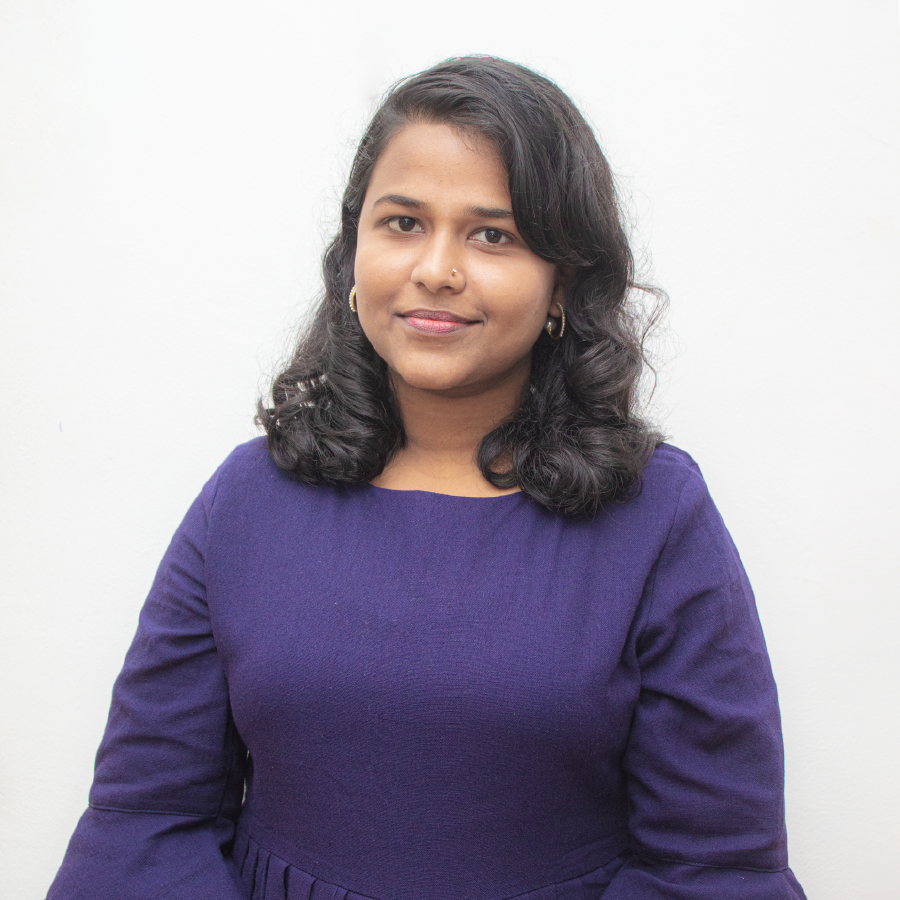
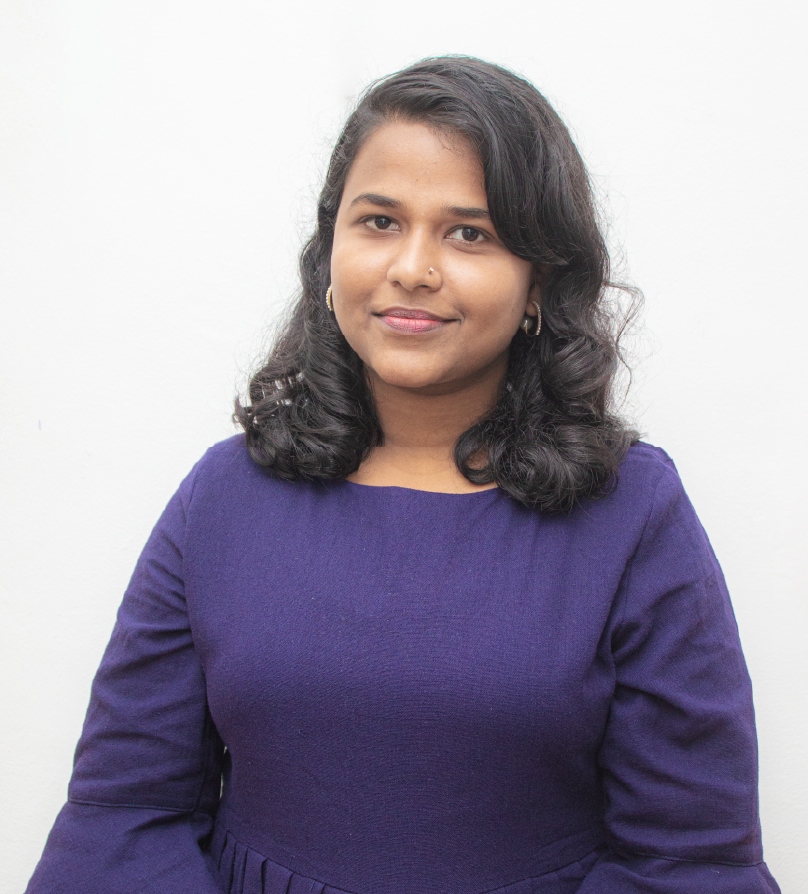
Resize core team images

diff --git a/pages/2-a-team.php b/pages/2-a-team.php
@@ -23,7 +23,7 @@
 
       <div class="col-lg-3 col-md-6 d-flex align-items-stretch">
         <div class="member">
-          <img src="../assets\img\about\core-team\aravinth.png" class="img-fluid" alt="">
+          <img src="../assets\img\about\core-team\aravinth-100.jpg" class="img-fluid" alt="">
           <div class="member-content">
             <h4>Aravinth Panch</h4>
             <span>Co-founder | Guardian of Networking</span>
